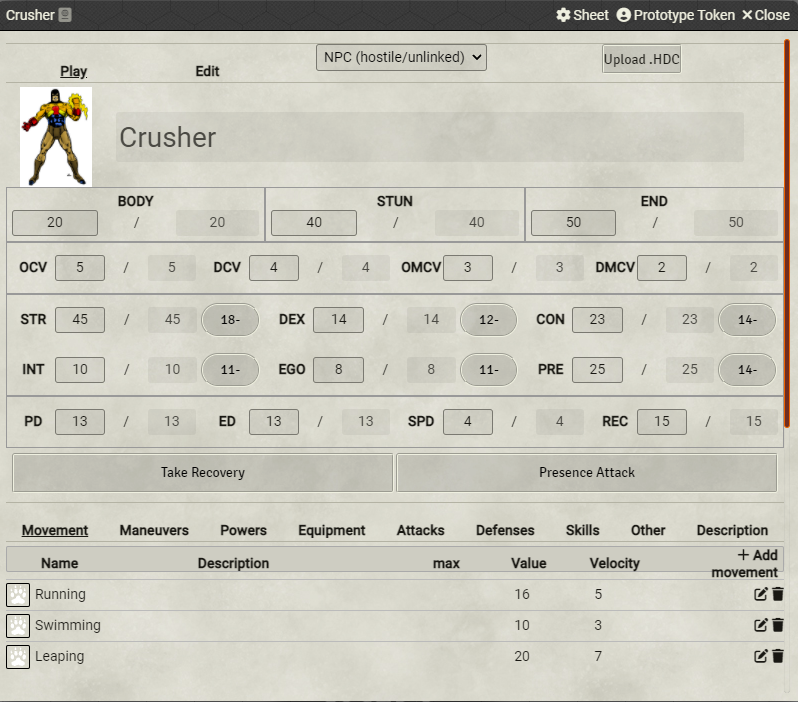
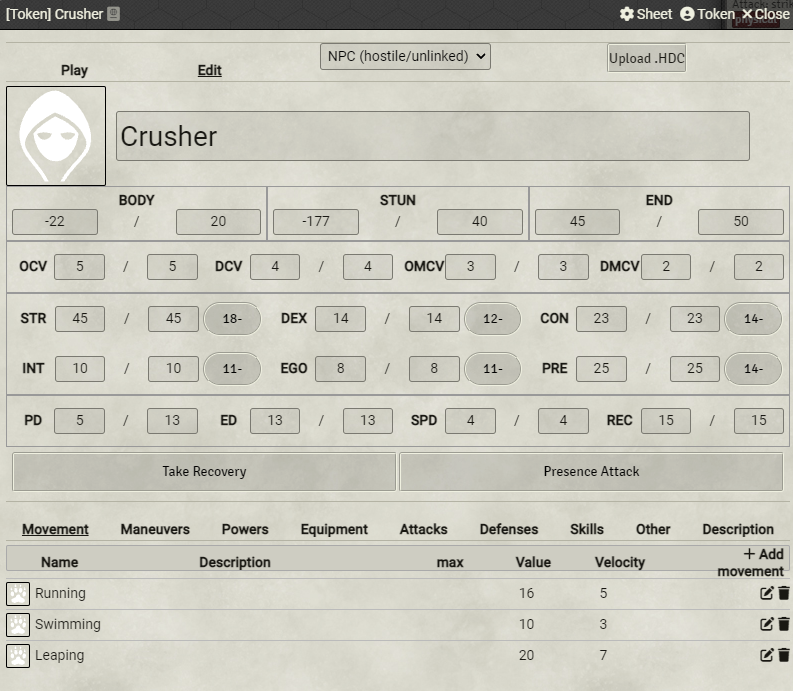
removed artwork from screenshot

diff --git a/module/herosystem6e.js b/module/herosystem6e.js
@@ -4,6 +4,7 @@ import { POWERS } from "./powers/powers-rules.js";
 import { HeroSystem6eActor } from "./actor/actor.js";
 import { HeroSystem6eActorSheet } from "./actor/actor-sheet.js";
 import { HeroSystem6eActorSheetMini } from "./actor/actor-sheet-mini.js"
+import { HeroSystem6eActorSidebarSheet } from "./actor/actor-sidebar-sheet.js";
 import { HeroSystem6eToken, HeroSystem6eTokenDocument } from "./actor/actor-token.js";
 import { HeroSystem6eItem } from "./item/item.js";
 import { HeroSystem6eItemSheet } from "./item/item-sheet.js";
@@ -68,6 +69,7 @@ Hooks.once('init', async function() {
     // Register sheet application classes
     Actors.unregisterSheet("core", ActorSheet);
     Actors.registerSheet("herosystem6e", HeroSystem6eActorSheet, { makeDefault: true });
+    Actors.registerSheet("herosystem6e", HeroSystem6eActorSidebarSheet);
     Items.unregisterSheet("core", ItemSheet);
     Items.registerSheet("herosystem6e", HeroSystem6eItemSheet, { makeDefault: true });
 

diff --git a/module/actor/actor-sheet.js b/module/actor/actor-sheet.js
@@ -38,12 +38,12 @@ export class HeroSystem6eActorSheet extends ActorSheet {
         { navSelector: '.sheet-edit-tabs', contentSelector: '.sheet-mode', initial: 'play' }
       ],
       //A list of unique CSS selectors which target containers that should have their vertical scroll positions preserved during a re-render.
-      scrollY: [ ...options.scrollY, ".hero.actor-sheet" ],
+      scrollY: [ ...options.scrollY, ".defenses-group" ],
 
       heroEditable: false,
 
     }
-    console.log(newOptions)
+    //console.log(newOptions)
     return newOptions
   }
 

diff --git a/module/actor/actor-sidebar-sheet.js b/module/actor/actor-sidebar-sheet.js
@@ -1,0 +1,14 @@
+export class HeroSystem6eActorSidebarSheet extends ActorSheet {
+
+  /** @override */
+  static get defaultOptions() {
+    return mergeObject(super.defaultOptions, {
+      classes: ["actor-sidebar-sheet"],
+      template: "systems/hero6efoundryvttv2/templates/actor-sidebar/actor-sidebar-sheet.hbs",
+      //width: 600,
+      //height: 600,
+      //tabs: [{ navSelector: ".sheet-tabs", contentSelector: ".sheet-body", initial: "features" }],
+    });
+  }
+
+}

diff --git a/css/actor-sidebar-sheet.css b/css/actor-sidebar-sheet.css
@@ -1,0 +1,3 @@
+.actor-sidebar-sheet  form {
+  
+}
